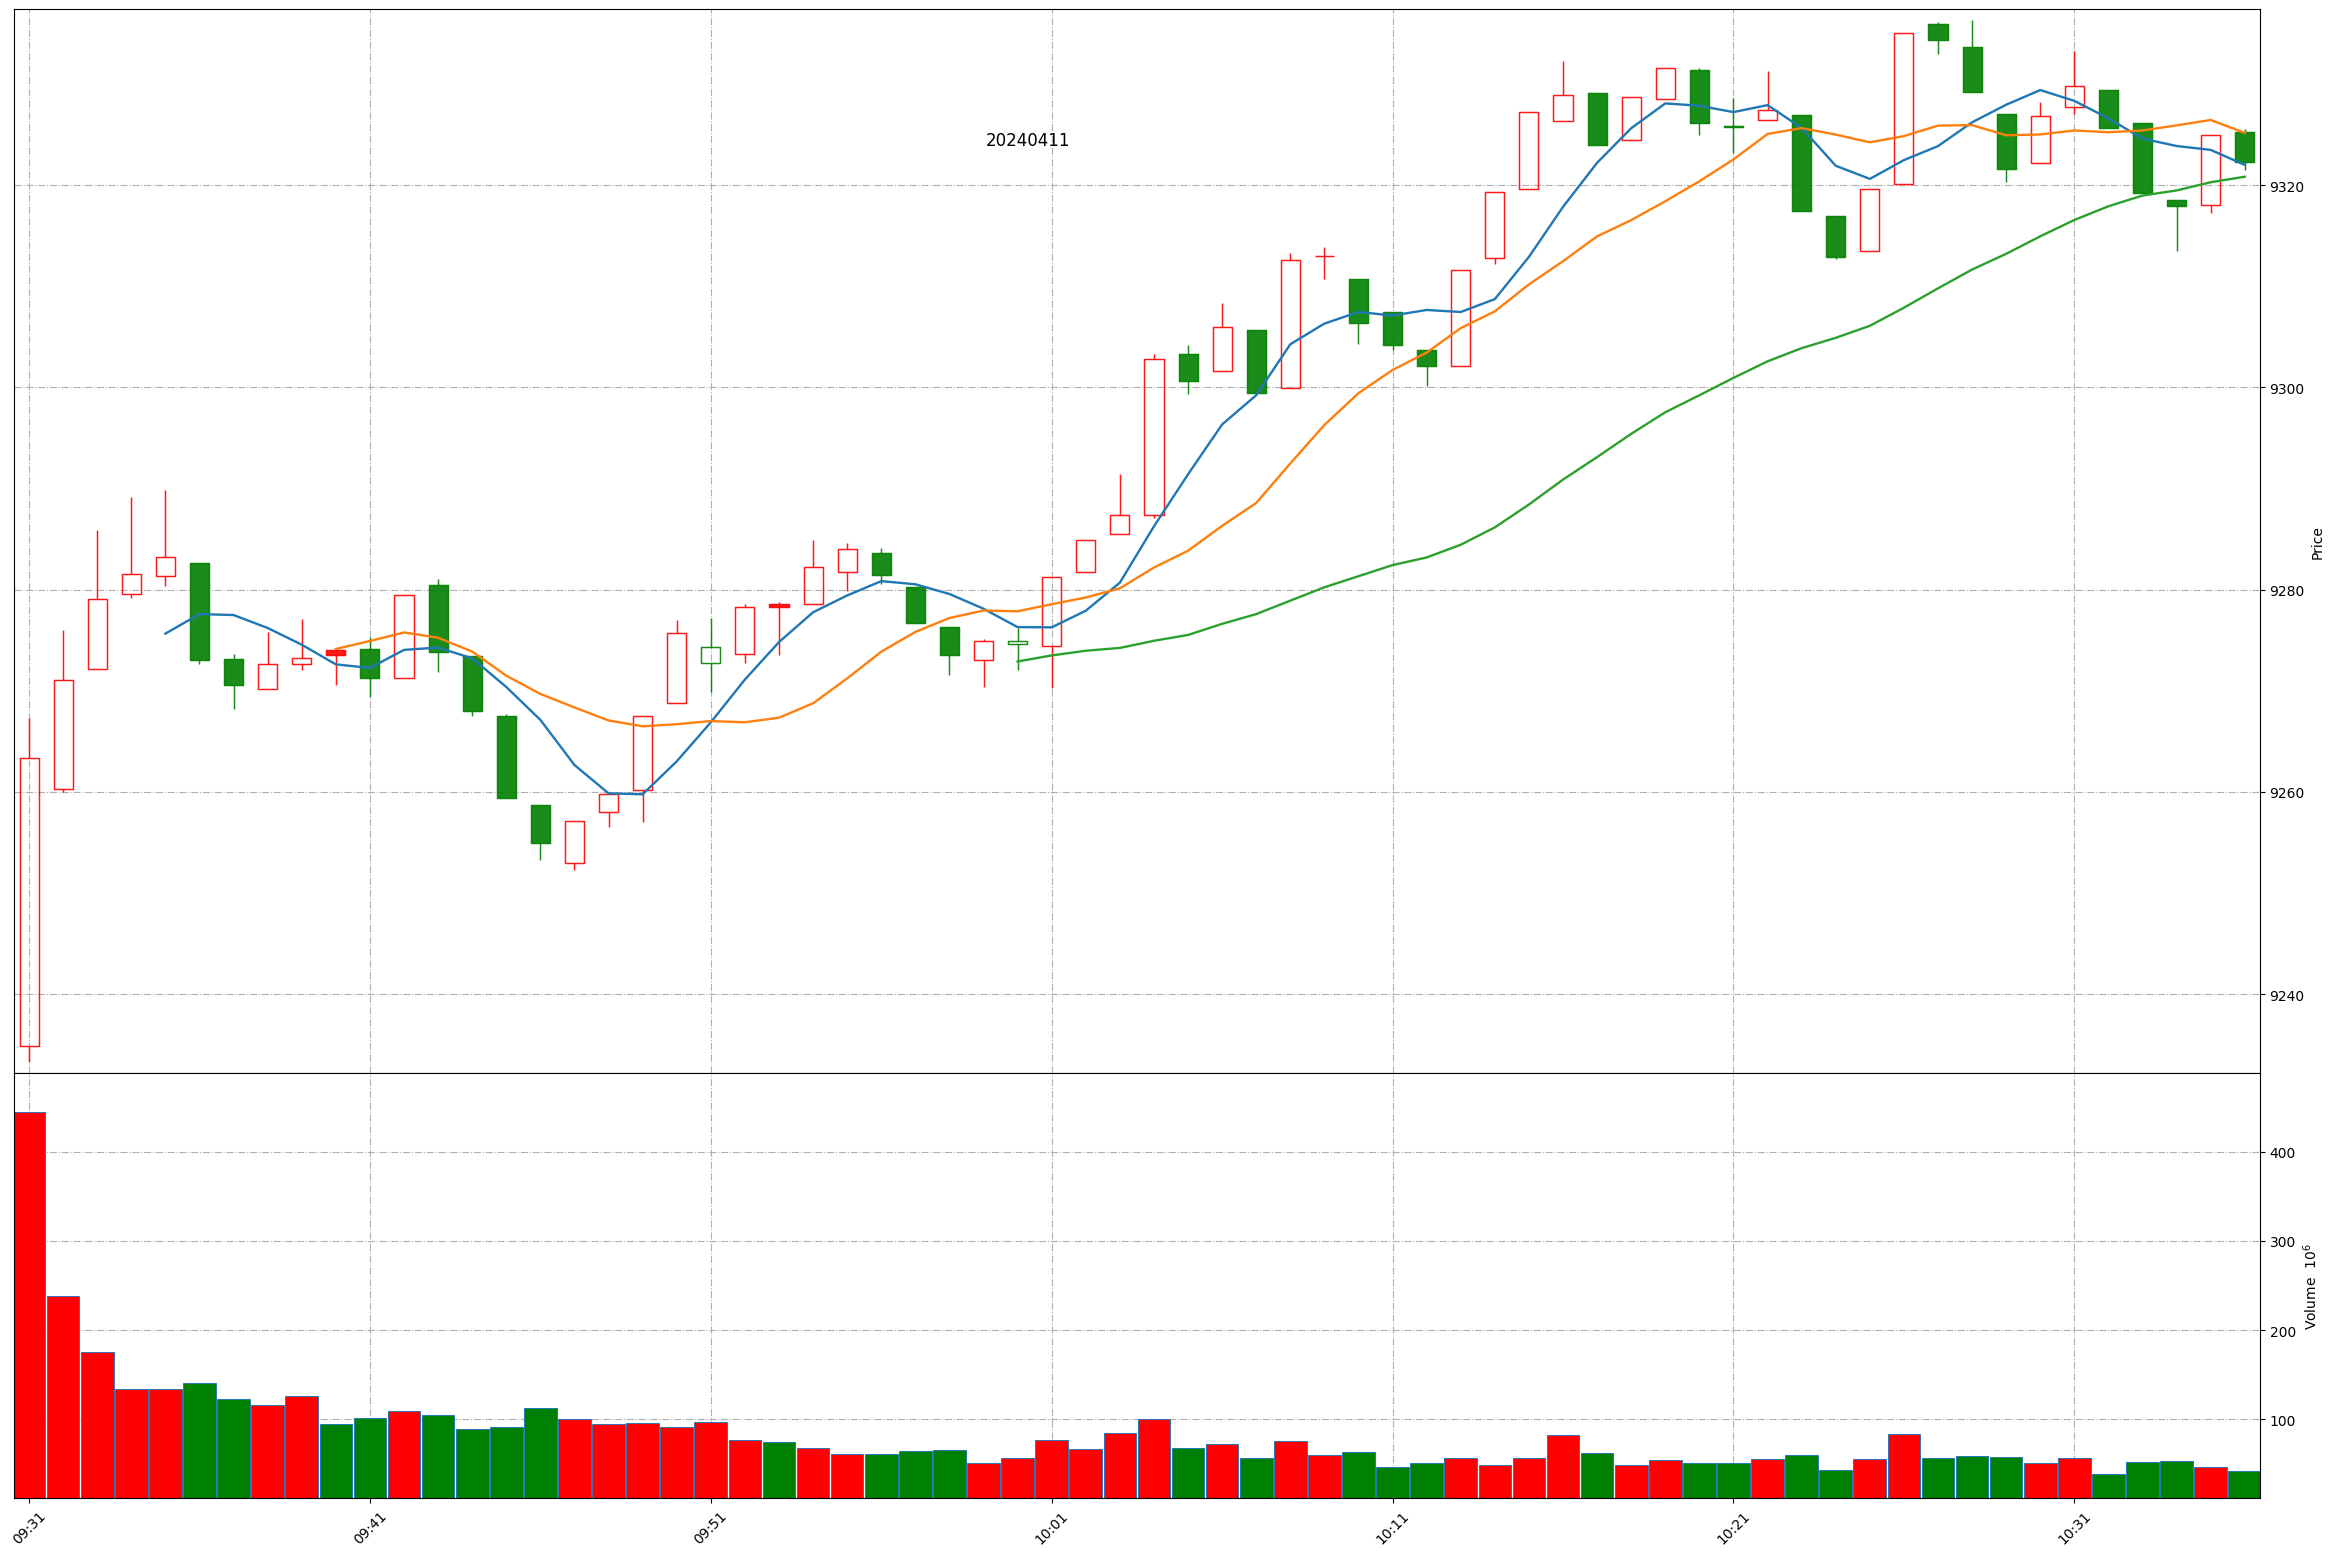
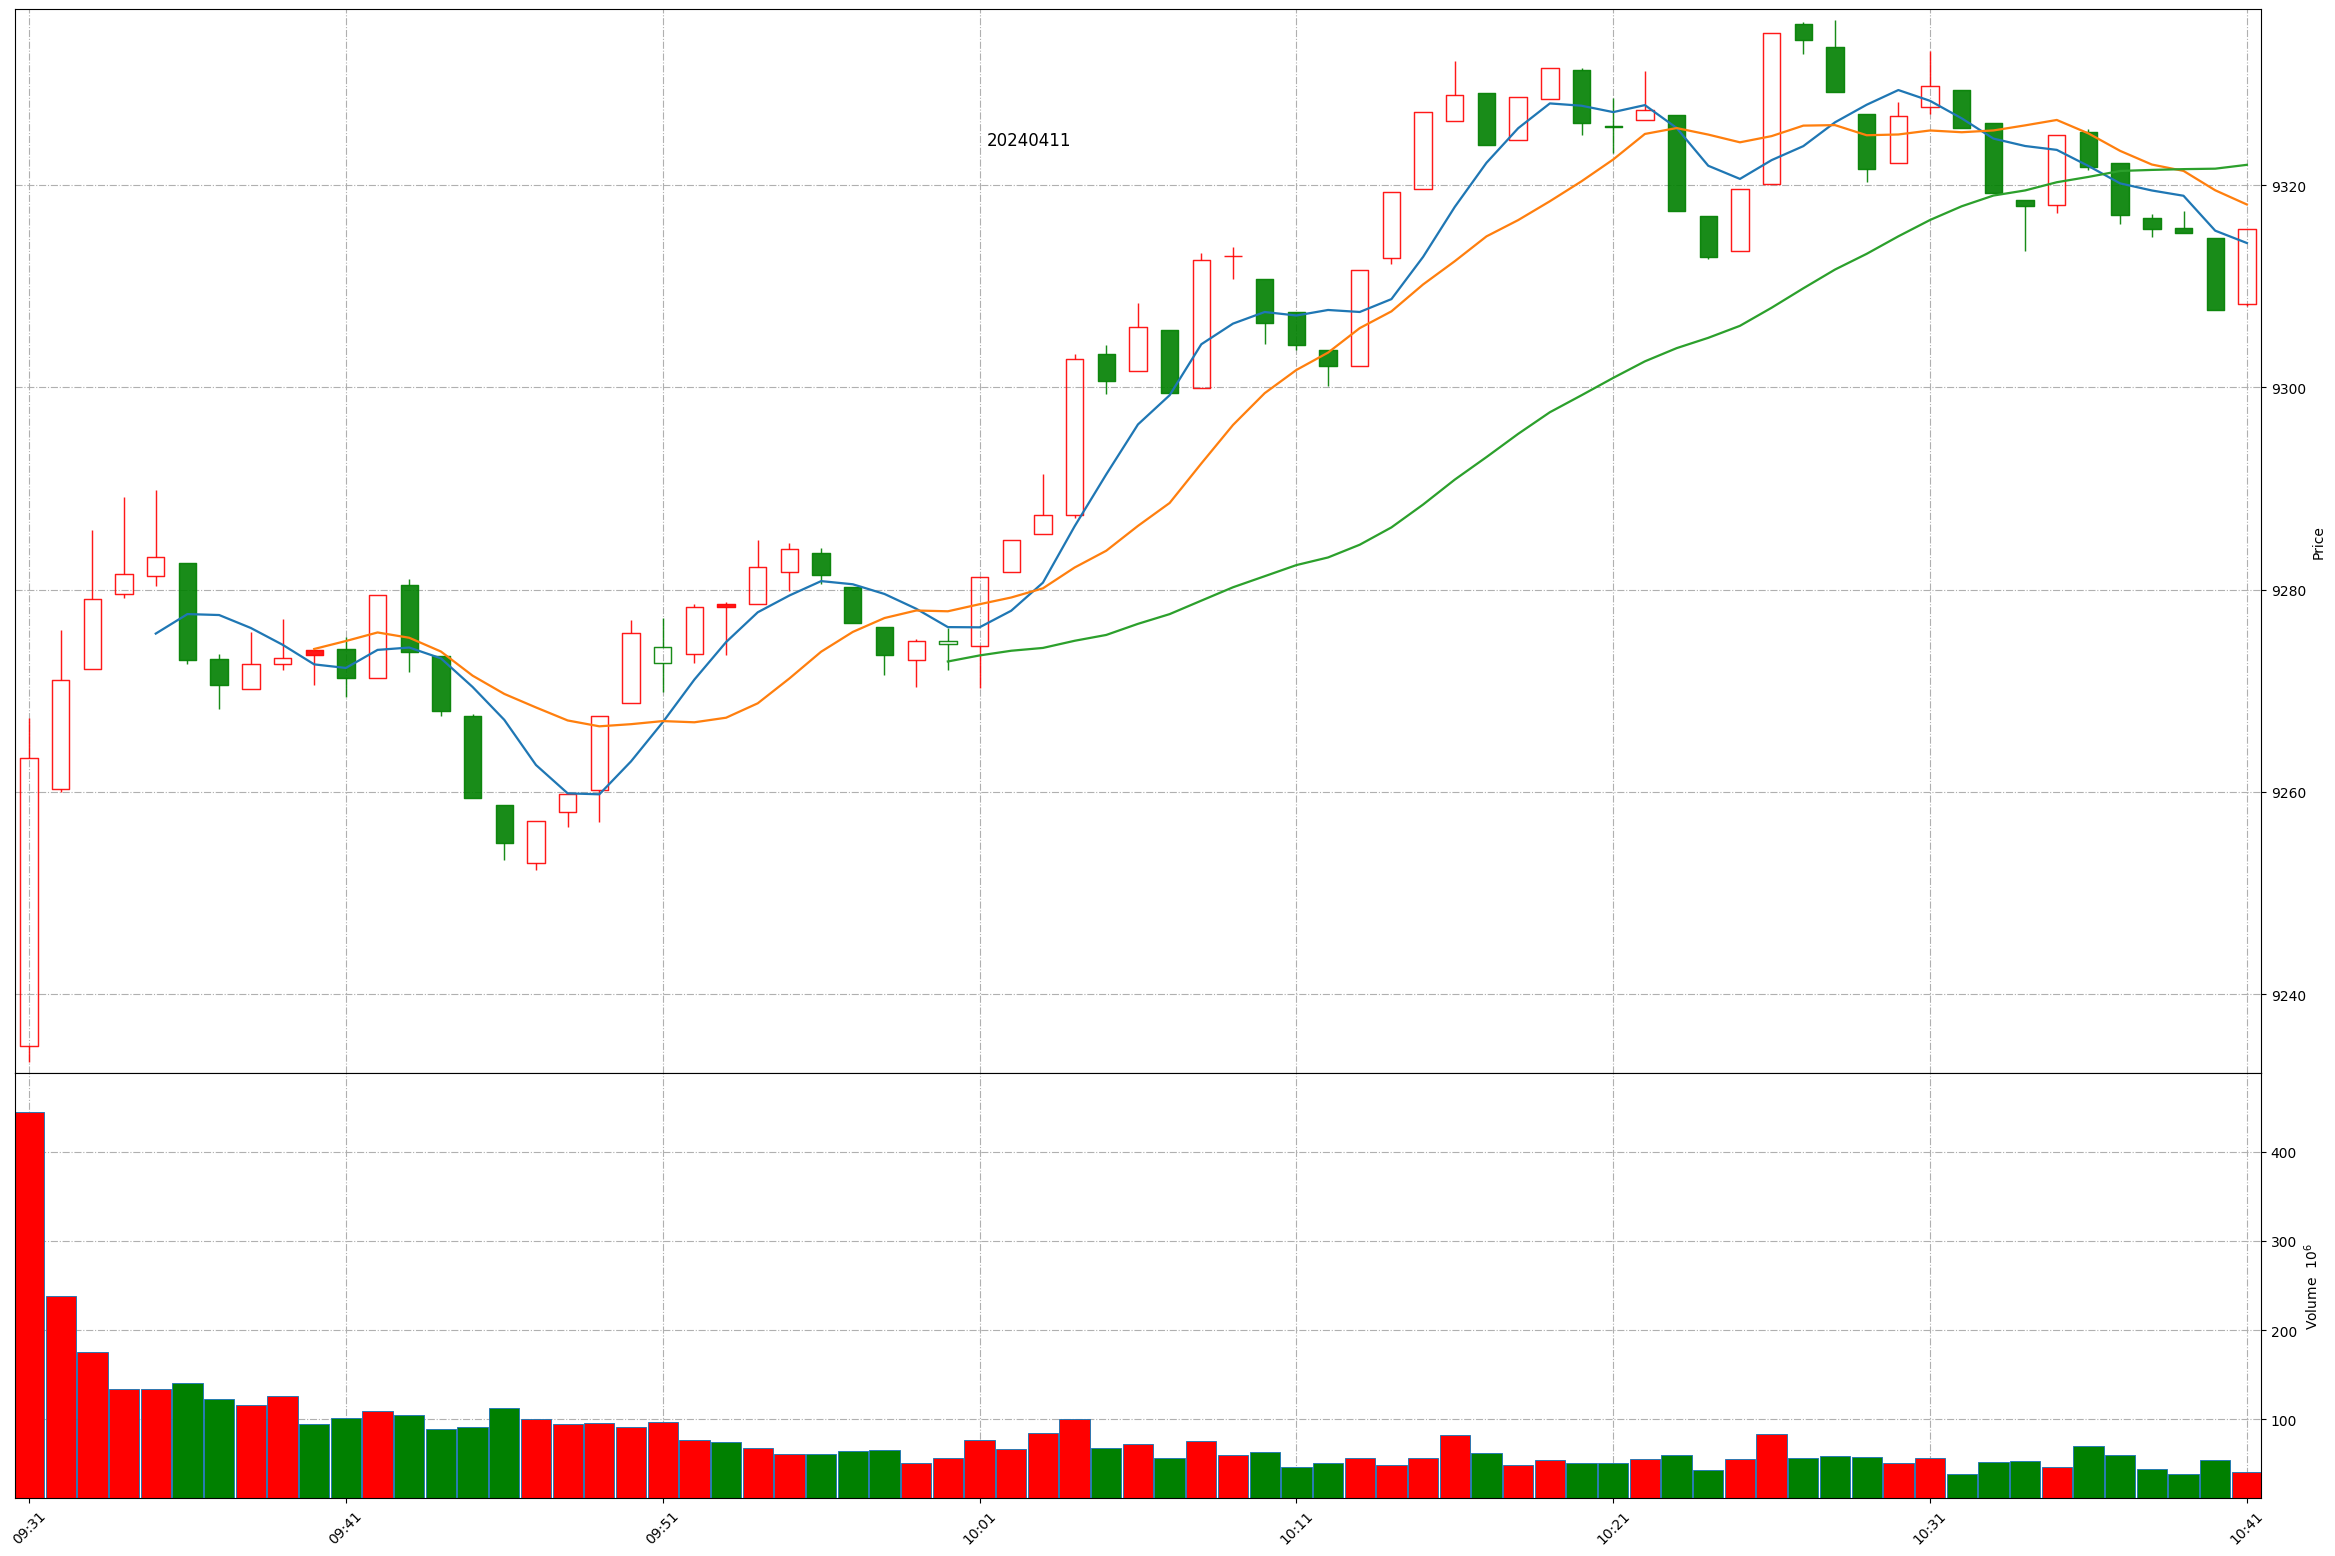
Github action update at 2024-04-11 10:40:45.

diff --git a/README.md b/README.md
@@ -1,11 +1,11 @@
 
 # Daily-A-share-market-quotes 每日 A 股指数（5min 更新）- 20240411
 
-### 上证指数 20240411 10:35
+### 上证指数 20240411 10:40
 ![](./fig/2024/4/20240411-sh000001.png)
 
-### 深证成指 20240411 10:35
+### 深证成指 20240411 10:40
 ![](./fig/2024/4/20240411-sz399001.png)
 
-### 北证50 20240411 10:35
+### 北证50 20240411 10:40
 ![](./fig/2024/4/20240411-bj899050.png)
